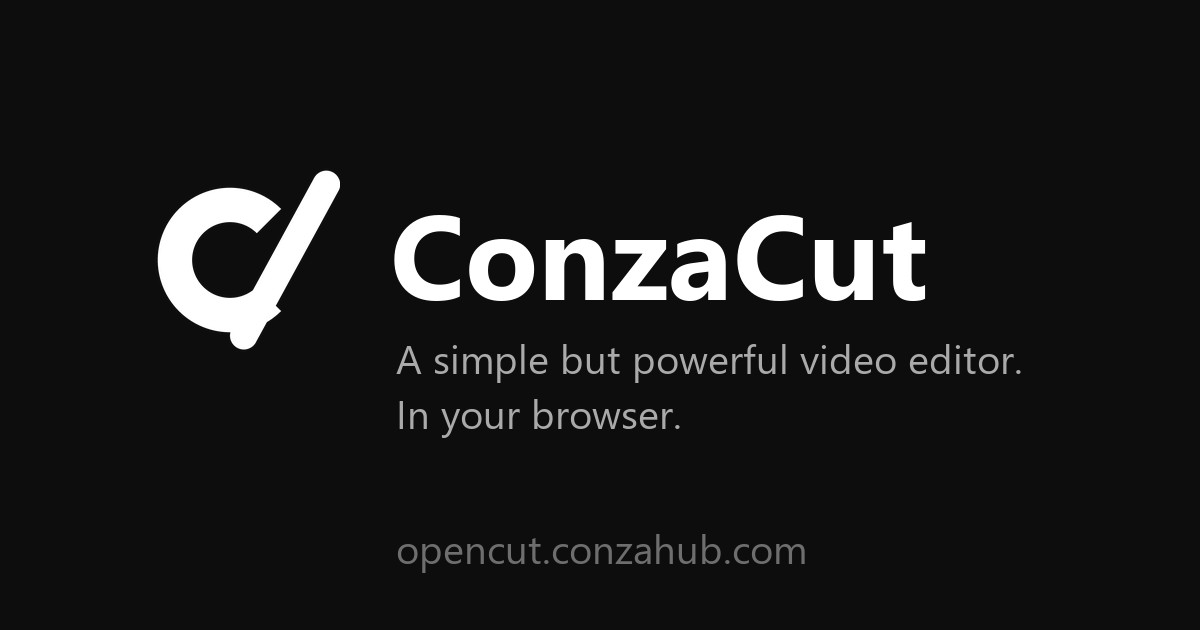
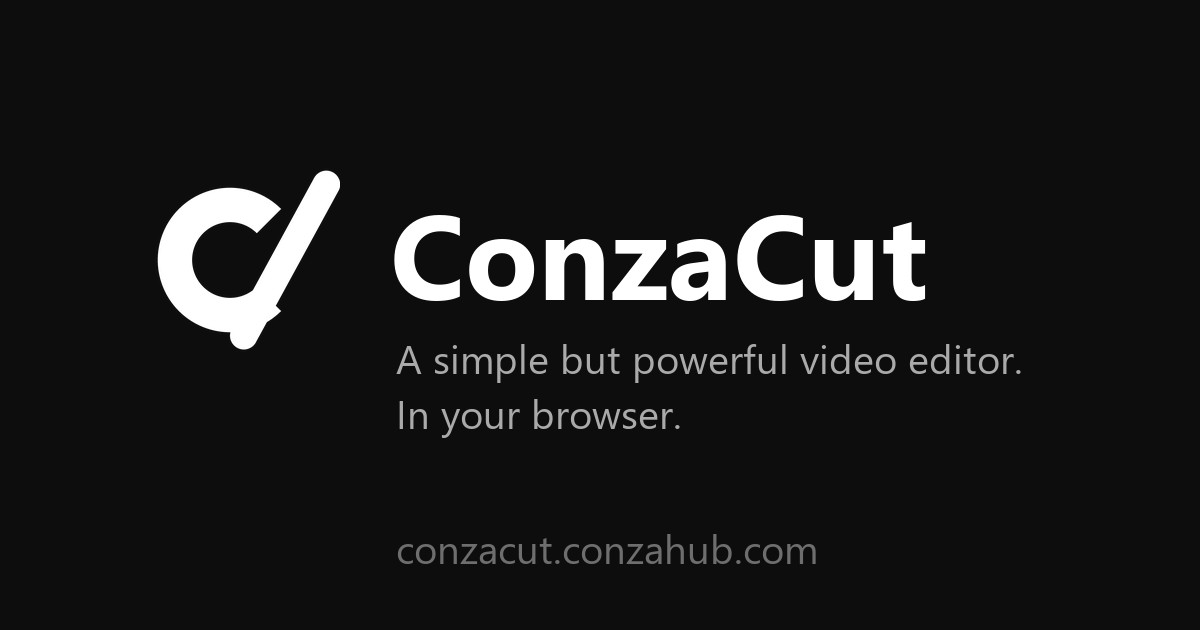
Move the site to conzacut.conzahub.com
The web worker's custom domain, the API's allowed origin, the site URL
and the share card now use conzacut.conzahub.com. A small worker in
infra/opencut-redirect keeps opencut.conzahub.com as a permanent
redirect so earlier links still land on the editor.

Changed region(s): [[0.3392, 0.8444, 0.6783, 0.9048]]

diff --git a/infra/opencut-redirect/index.js b/infra/opencut-redirect/index.js
@@ -1,0 +1,8 @@
+// Permanent redirect from the old host to conzacut.conzahub.com, path and query kept.
+export default {
+  fetch(request) {
+    const url = new URL(request.url);
+    url.hostname = "conzacut.conzahub.com";
+    return Response.redirect(url.toString(), 301);
+  },
+};

diff --git a/apps/web/src/site/brand.ts b/apps/web/src/site/brand.ts
@@ -1,4 +1,4 @@
-export const SITE_URL = "https://opencut.conzahub.com";
+export const SITE_URL = "https://conzacut.conzahub.com";
 
 export const SITE_INFO = {
 	title: "ConzaCut",

diff --git a/README.md b/README.md
@@ -10,7 +10,7 @@
   </tr>
 </table>
 
-> The web editor in this fork is hosted as **ConzaCut** at https://opencut.conzahub.com. It is OpenCut under the MIT licence with its own name and marks; see `ATTRIBUTION.md`.
+> The web editor in this fork is hosted as **ConzaCut** at https://conzacut.conzahub.com. It is OpenCut under the MIT licence with its own name and marks; see `ATTRIBUTION.md`.
 
 [![Discord](https://img.shields.io/discord/1386309140057690133?label=Discord&logo=discord&logoColor=fff&color=5865F2&style=flat)](https://discord.gg/zmR9N35cjK)
 [![X](https://img.shields.io/badge/follow-%40opencutapp-000?logo=x&logoColor=fff&style=flat)](https://x.com/opencutapp)

diff --git a/ATTRIBUTION.md b/ATTRIBUTION.md
@@ -78,7 +78,7 @@ hugeicons (icons, free set).
 
 ## ConzaCut marks (`apps/web/public/logos/conzacut`, `apps/web/public/icons`, `favicon.ico`, `open-graph/default.jpg`)
 
-Original work, drawn 2026-11-04 for the hosted site at opencut.conzahub.com:
+Original work, drawn 2026-11-04 for the hosted site at conzacut.conzahub.com:
 a "C" ring cut open by a diagonal slash. Generated from one geometry
 definition (SVG paths plus PIL rasters at every icon size); the Open Graph
 card uses the Segoe UI system font. The OpenCut marks that the web app used
